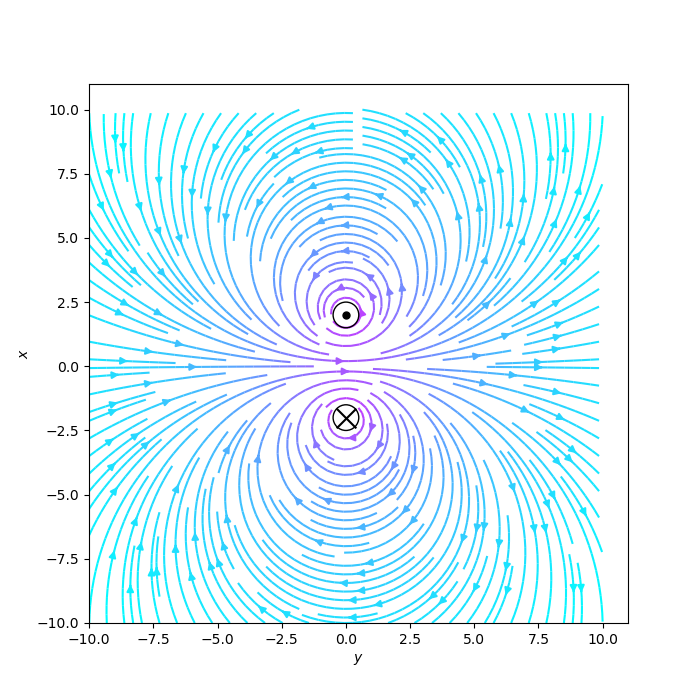
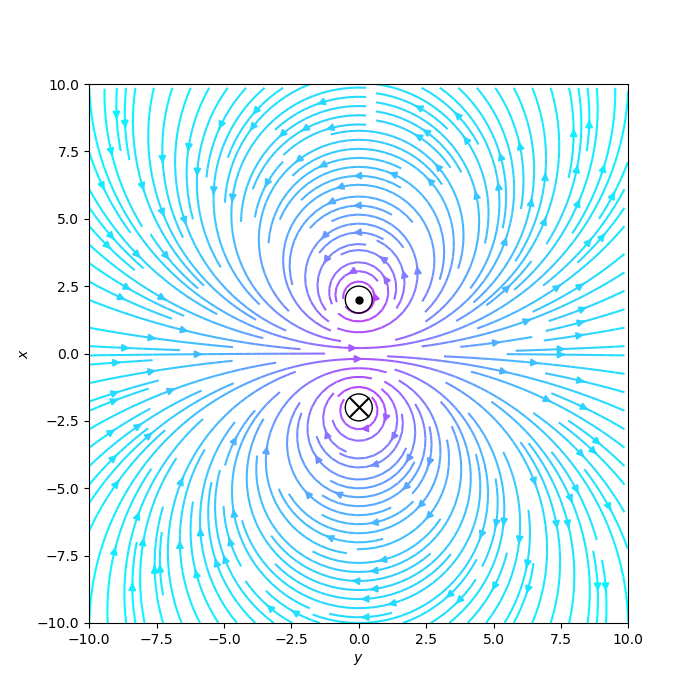
EBFieldSolver

Changed region(s): [[0.06, 0.12, 0.93, 0.93]]

diff --git a/src/ElectricField.py b/src/ElectricField.py
@@ -105,7 +105,7 @@ x, y = np.meshgrid(np.linspace(-5, 5, nx), np.linspace(-5, 5, ny))
 
 fig = plt.figure(figsize=(7, 7))
 ax = fig.add_subplot(111)
-# ax.set(xlim=(-5, 5), ylim=(-5, 5))
+ax.set(xlim=(-5, 5), ylim=(-5, 5))
 ax.set_xlabel(r'$x$')
 ax.set_ylabel(r'$y$')
 ax.set_aspect('equal')

diff --git a/src/MagneticField.py b/src/MagneticField.py
@@ -75,6 +75,7 @@ x, y = np.meshgrid(np.linspace(-10, 10, nx), np.linspace(-10, 10, ny))
 
 fig = plt.figure(figsize=(7, 7))
 ax = fig.add_subplot(111)
+ax.set(xlim=(-10, 10), ylim=(-10, 10))
 ax.set_xlabel(r'$y$')
 ax.set_ylabel(r'$x$')
 ax.set_aspect('equal')
